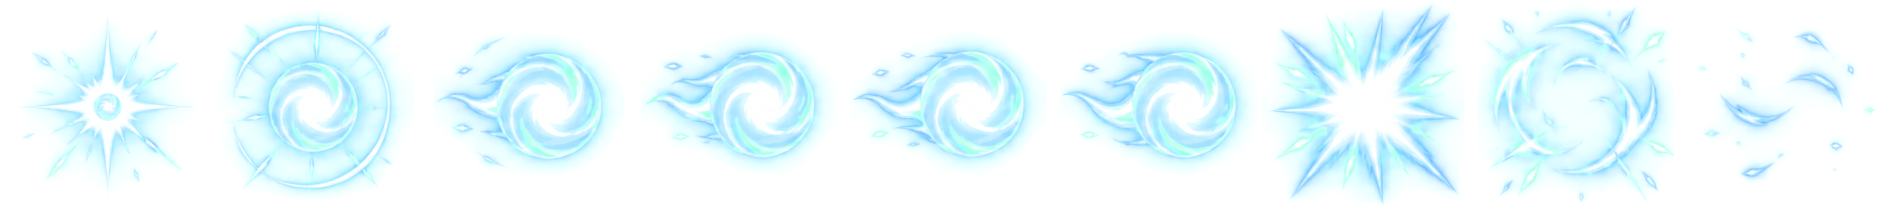
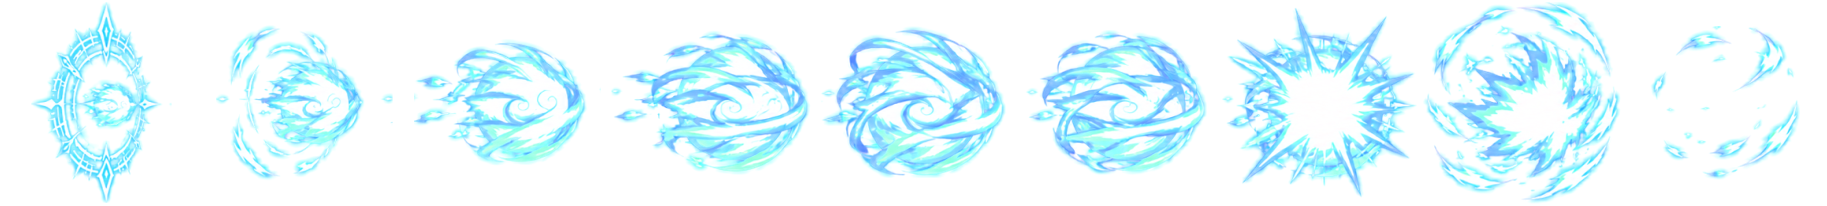
Malik: four redrawn effects wired in; the editor's FX page can move an effect
- Light and heavy Spirit Orb, the Down Rite orb (nine drawings now) and the
  air Rite's burst under the opponent (new sheet air-burst) are recut from the
  owner's new files. The heavy orb is light on black like the others.
- FX page: Move X / Move Y rows write sprite.offset [forward, up] px, applied
  in drawSheetFrame. Drawing only: hitboxes and spawn points do not move.
- Includes the owner's editor tuning in Malik's file (palm2 opacity, a hitbox).

Claude-Session: https://claude.ai/code/session_01XDQqBAyT34HEXnArFczUN3

diff --git a/src/editor/fx-model.js b/src/editor/fx-model.js
@@ -5,6 +5,8 @@
 //   size      sprite.scale      (1 = the sheet's own pixels)
 //   rotation  sprite.angle      degrees, clockwise when facing right (mirrored when facing left)
 //   colour    sprite.tint       "#rrggbb": the drawing multiplied by that colour; absent = as painted
+//   move      sprite.offset     [forward, up] px: the drawing moved off the place the game puts it. The drawing only:
+//                               a projectile's hitbox and where it spawns do not move.
 //   opacity   an effect or a projectile: art.opacity[<name>] (or the entry's own "opacity" when it has one), else
 //             the system's class default; a burst projectile's own sheet: sprite.opacity; a burst layer (fire,
 //             smoke): the layer's "opacity".
@@ -42,6 +44,8 @@ export const spriteOf = (raw, entry) => holder(raw, entry).sprite;
 export const FX_FIELDS = [
   { key: 'scale', label: 'Size', min: 0.05, max: 6, step: 0.05, big: 0.25, digits: 3, help: 'How big the sheet is drawn. 1 = its own pixels; most sheets are cut at double size and drawn at 0.5.' },
   { key: 'angle', label: 'Rotation', unit: '°', min: -180, max: 180, step: 5, big: 15, digits: 0, help: 'Degrees, clockwise when he faces right (it mirrors when he faces left). 0 = as painted.' },
+  { key: 'offset.x', label: 'Move X', unit: ' px', min: -600, max: 600, step: 1, big: 10, digits: 0, axis: 0, help: 'Moves the drawing forward (+) or back (−), the way the character faces. The drawing only: a hitbox does not move.' },
+  { key: 'offset.y', label: 'Move Y', unit: ' px', min: -600, max: 600, step: 1, big: 10, digits: 0, axis: 1, help: 'Moves the drawing up (+) or down (−). The drawing only: a hitbox does not move.' },
   { key: 'opacity', label: 'Opacity', min: 0, max: 1, step: 0.05, big: 0.2, digits: 2, help: '1 = solid, 0 = invisible. In the game it also drops a little while the effect covers a fighter.' },
   { key: 'tint', label: 'Colour', type: 'colour', help: 'The drawing multiplied by a colour. White and light effects take it cleanly; a painted one gets darker. NONE = as painted.' },
   { key: 'tint.r', label: 'Red', min: 0, max: 255, step: 5, big: 25, digits: 0, colour: 0, help: 'The red part of the colour (255 = leave the red as painted).' },
@@ -67,6 +71,7 @@ export function readFx(raw, entry, key, classes = {}) {
   const h = holder(raw, entry), s = h.sprite;
   if (key === 'scale') return { value: s.scale ?? 1, own: s.scale !== undefined };
   if (key === 'angle') return { value: s.angle ?? 0, own: s.angle !== undefined };
+  if (key.startsWith('offset.')) return { value: s.offset?.[fxField(key).axis] ?? 0, own: s.offset !== undefined };
   if (key === 'tint') return { value: s.tint ?? null, own: s.tint !== undefined };
   if (key.startsWith('tint.')) return { value: rgbOf(s.tint)[fxField(key).colour], own: s.tint !== undefined };
   if (key === 'opacity') {
@@ -103,6 +108,12 @@ export function writeFx(raw, entry, key, value) {
   }
   if (key === 'scale') { s.scale = v; return; }
   if (key === 'angle') { if (v === 0) delete s.angle; else s.angle = v; return; }
+  if (key.startsWith('offset.')) {
+    const at = [s.offset?.[0] ?? 0, s.offset?.[1] ?? 0];
+    at[f.axis] = v;
+    if (at[0] === 0 && at[1] === 0) delete s.offset; else s.offset = at;
+    return;
+  }
   // opacity
   if (entry.kind === 'layer') h.opacity = v;
   else if (entry.kind === 'burst') { if (v === 1) delete s.opacity; else s.opacity = v; }
@@ -119,6 +130,7 @@ export function resetFx(raw, entry, key) {
   const h = holder(raw, entry), s = h.sprite;
   if (key === 'scale') throw new Error('Size has no default: every sheet says how big it is drawn.');
   if (key === 'angle') { delete s.angle; return; }
+  if (key.startsWith('offset.')) { writeFx(raw, entry, key, 0); return; }
   if (key === 'tint' || key.startsWith('tint.')) { delete s.tint; return; }
   if (key === 'opacity') {
     if (entry.kind === 'layer') delete h.opacity;

diff --git a/tests/fx-editor.test.js b/tests/fx-editor.test.js
@@ -125,3 +125,53 @@ test('An effect that carries its own opacity is edited in place', () => {
   assert.equal(raw.effects.pillar.opacity, 0.3);
   assert.equal(raw.art.opacity.pillar, loadJSON(PATH('malik')).art.opacity.pillar, 'the name rule is left alone');
 });
+
+test('Move X / Move Y: the drawing moves, written as sprite.offset; the rules do not change', () => {
+  for (const id of ['avner', 'malik', 'warteun']) {
+    const raw = loadJSON(PATH(id));
+    const before = JSON.stringify(compileCharacter(clone(raw), SYSTEM).states);
+    for (const e of fxEntries(raw)) {
+      const s = spriteOf(raw, e);
+      assert.deepEqual([readFx(raw, e, 'offset.x', CLASSES), readFx(raw, e, 'offset.y', CLASSES)], [{ value: s.offset?.[0] ?? 0, own: s.offset !== undefined }, { value: s.offset?.[1] ?? 0, own: s.offset !== undefined }]);
+    }
+    const e = fxEntries(raw).find((x) => x.kind === 'projectile') ?? fxEntries(raw)[0];
+    const s = spriteOf(raw, e);
+    delete s.offset;
+    const spawn = JSON.stringify(raw.projectiles?.[e.name]?.spawn), hitbox = JSON.stringify(raw.projectiles?.[e.name]?.hitbox);
+    nudgeFx(raw, e, 'offset.x', 1, false, CLASSES);
+    assert.deepEqual(s.offset, [1, 0]);
+    nudgeFx(raw, e, 'offset.y', -1, true, CLASSES);
+    assert.deepEqual(s.offset, [1, -10], 'Shift: ten at a time');
+    writeFx(raw, e, 'offset.x', -25.4);
+    assert.deepEqual(s.offset, [-25, -10], 'whole pixels');
+    assert.equal(showFx('offset.x', -25), '-25 px');
+    assert.equal(JSON.stringify(raw.projectiles?.[e.name]?.spawn), spawn, `${id}: where it spawns is untouched`);
+    assert.equal(JSON.stringify(raw.projectiles?.[e.name]?.hitbox), hitbox, `${id}: its hitbox is untouched`);
+    const def = compileCharacter(clone(raw), SYSTEM);
+    assert.equal(JSON.stringify(def.states), before, `${id}: the compiled moves are the same`);
+    if (e.kind === 'projectile') assert.deepEqual(def.projectiles[e.name].sprite.offset, [-25, -10], `${id}: the game's drawing reads it`);
+    resetFx(raw, e, 'offset.x');
+    assert.deepEqual(s.offset, [0, -10]);
+    resetFx(raw, e, 'offset.y');
+    assert.equal(s.offset, undefined, 'back at its place: nothing left in the file');
+  }
+  assert.match(fs.readFileSync('src/render/fight-renderer.js', 'utf8'), /sheet\.offset\[0\]/, 'the renderer applies it');
+});
+
+test('Malik\'s redrawn effects (Nov 26): every sheet his file names matches the cut, and each animation stays inside its sheet', () => {
+  const raw = loadJSON(PATH('malik'));
+  const manifest = loadJSON('data/characters/malik/sheets/manifest.json');
+  for (const [name, key, drawings] of [['spiritOrb', 'orb', 9], ['spiritOrbH', 'orb-H', 9], ['palm2', 'palm-2', 9], ['palmJ', 'air-burst', 8]]) {
+    const p = raw.projectiles[name], m = manifest[key].sprite;
+    assert.equal(p.sprite.image, `sheets/${key}.png`, name);
+    assert.ok(fs.existsSync(`data/characters/malik/sheets/${key}.png`), key);
+    for (const f of ['columns', 'count', 'frameW', 'frameH', 'originX']) assert.equal(p.sprite[f], m[f], `${name} ${f}`);
+    assert.equal(p.sprite.count, drawings, `${name}: ${drawings} drawings`);
+    assert.equal(p.sprite.additive, true, `${name}: drawn as light`);
+    assert.equal(p.anim.release.length + p.anim.loop.length + p.anim.impact.length, drawings, `${name}: every drawing is used once`);
+  }
+  // The air Rite's burst shows on the frames it can hit: its forming drawings last exactly until the hit starts.
+  const J = raw.projectiles.palmJ;
+  assert.equal(J.anim.release.reduce((a, b) => a + b, 0), J.phases[0][0]);
+  assert.equal(raw.effects.riteClap.sprite.image, 'sheets/clap.png', 'the clap at his hands keeps its sheet');
+});

diff --git a/src/render/fight-renderer.js b/src/render/fight-renderer.js
@@ -260,6 +260,7 @@ export function createFightRenderer(ctx, W, H) {
   /** One frame of a sheet (effects, marks, chain pieces: no palette), centred on its origin at screen x, y. */
   function drawSheetFrame(def, sheet, index, x, y, facing, angle = (facing * (sheet.angle ?? 0) * Math.PI) / 180) { // sheet.angle: its own rotation, in degrees
     const op = fxOp; fxOp = null; // FXOPACITY
+    if (sheet.offset) { x += facing * sheet.offset[0]; y -= sheet.offset[1]; } // sheet.offset: [forward, up] px, the drawing moved off its place (the editor's FX page)
     const img = tinted(spriteImage(def ? def.id : null, sheet.image), sheet.tint);
     if (!img) return false;
     const cols = sheet.columns ?? 1;

diff --git a/src/ui/screens/fx-page.js b/src/ui/screens/fx-page.js
@@ -8,7 +8,7 @@ import { fxEntries, spriteOf, FX_FIELDS, fxField, SWATCHES, readFx, writeFx, res
 import { INK, DIM, GOLD } from './common.js';
 
 const CLASSES = FX.opacity?.classes ?? {};
-const ROW_H = 16;
+const ROW_H = 14;
 const TOP = 386;
 const LIST_ROW = 15;
 const LIST_TOP = 56;

diff --git a/CLAUDE.md b/CLAUDE.md
@@ -72,7 +72,7 @@ Current through **Phase 9** (all phases of the brief done), plus **Avner: Brand 
 - **HIT SETTINGS, added Nov 25** (owner approved; tests in `tests/move-editor.test.js`): the projectile setting **Appears** (`place` in `FIELDS`: in front of him / under the opponent) is written into every timeline `spawn` that releases that projectile (`spawnEvents` in move-model.js; a projectile target carries its `name`), not into the projectile. The **projectile timeline** strip under the measured lines: `flightOf` (when each projectile appears, when its box is live), `firstTouch` and `flightWarning` (a `remote` move's own hit must come on a later frame than its projectile's first touch) in preview.js, drawn by `drawFlight` in move-tuner.js; the preview's stats carry `touches` (every hit or block of the loop, by move name) and `now`. The strip's drawing has not been looked at on screen by the AI.
 - **The editor's HIT SETTINGS page** (T in the box editor; report `docs/reports/hit-settings.md`, tests `tests/move-editor.test.js`): `src/editor/move-model.js` (pure: `FIELDS`, `settingsTarget` → where a move's / EX version's / projectile's settings are written, `readSetting` / `writeSetting` / `resetSetting`, launch as none / soft / hard with own x, y), `src/editor/preview.js` (pure: the real game looping one move against a dummy and measuring it; `hitOwner` sends a projectile-only move to its projectile), `src/ui/screens/move-tuner.js` (the page; the box editor owns file, undo and save and passes them in). New move field `recoil` (attacker slides back on every touch; `recoil()` in combat.js). Open the editor straight on it with `?mode=editor&p1=malik&move=5L&page=hit`. Its TIMING column edits startup / active / recovery through `retime` in move-model.js: frames are added or taken at the end of the part that changes, and the sheet's `holds`, timeline events, `cancels`, `cancelFrom` / `cancelTo` and the EX overrides move with it (refused for EX versions, shared universal moves and moves with their own `duration`). Not on the page yet: scaling, meter, bounces.
 - **The editor's CANCELS page** (third page, T steps through them; `?page=cancel`; report `docs/reports/cancel-editor.md`, tests `tests/cancel-editor.test.js`): `src/editor/cancel-model.js` (pure, mirrors `gatlingCancels`: `cancelMoves`, `cancelTargets`, `readCancels`, `toggleChain`, `setChainOn`, `setGroup` for special / super / jump, `setWindow` for `cancelFrom` / `cancelTo`), `src/ui/screens/cancel-grid.js` (the grid). If `gatlingCancels` changes, cancel-model.js must change with it (the test catches it). Hand-written `cancels` windows are not editable there.
-- **The editor's FX page** (fourth page; `?page=fx`; Nov 26, owner's request; tests `tests/fx-editor.test.js`): `src/editor/fx-model.js` lists every effect sheet a character owns (`effects` entries, projectile sheets, a burst's `fire` / `smoke` layers) and says where size (`sprite.scale`), rotation (`sprite.angle`, degrees), colour (`sprite.tint`, multiply) and opacity are written (a named effect or projectile: `art.opacity[name]`; a burst's own sheet: `sprite.opacity`; a layer: its `opacity`). `src/ui/screens/fx-page.js` draws the looping preview with `renderer.poseSheet` and has its own list on the left. `drawSheetFrame` now honours `sheet.angle` (when no angle is passed) and `sheet.opacity` everywhere. Settings are per effect, not per move. Drawing only.
+- **The editor's FX page** (fourth page; `?page=fx`; Nov 26, owner's request; tests `tests/fx-editor.test.js`): `src/editor/fx-model.js` lists every effect sheet a character owns (`effects` entries, projectile sheets, a burst's `fire` / `smoke` layers) and says where position (`sprite.offset: [forward, up]` px, rows Move X / Move Y, added Nov 26; applied at the top of `drawSheetFrame`, drawing only) and size (`sprite.scale`), rotation (`sprite.angle`, degrees), colour (`sprite.tint`, multiply) and opacity are written (a named effect or projectile: `art.opacity[name]`; a burst's own sheet: `sprite.opacity`; a layer: its `opacity`). `src/ui/screens/fx-page.js` draws the looping preview with `renderer.poseSheet` and has its own list on the left. `drawSheetFrame` now honours `sheet.angle` (when no angle is passed) and `sheet.opacity` everywhere. Settings are per effect, not per move. Drawing only.
 - **Art in the renderer** (all drawing-only data the core carries but never reads): move `chain` (`drawChain`: hand
   → hitbox tip, or → opponent after a hit while they slide), move `hitFx` (a sheet effect spawned from the hit cue,
   aged per game frame so it plays through hitstop), var `mark.sprite`. `drawSheetFrame` draws one frame of any sheet
@@ -98,6 +98,7 @@ Current through **Phase 9** (all phases of the brief done), plus **Avner: Brand 
 - **Hit states** (`data/system/combo.json` `hitStates`; report `docs/reports/hit-states.md`): a move picks what its hit does with `hitReaction` (normal, slide, spin, tumble, crumple, softKD, hardKD), `airReaction`, `counterReaction` and `otg`. The rules for each state are numbers in that one table, never code. A fall ends in the soft knockdown unless the last hit asked for the hard one; only an `otg` move can hit a fighter in a hard knockdown, once per combo. There is no stagger state: Vow keeps its crumple strikes. Avner's slide move is Lantern Drag (`lanternDrag`, 3H; sheets `lantern-drag`, `drag-sparks`, `drag-dust` from `Avner_LanternDrag*.png` via `avner-prep`; `node scripts/shots.mjs <folder> lamp-drag` pictures it). His overhead is Waning Hop (`waningHop`, 6M; a grounded move whose hurtbox is lifted off the floor during the hop; sheets `waning-hop`, `hop-crescent`; scene `lamp-hop`). In `avner-prep`, a part's `lineFrom` counts per row, so a two-row sheet with airborne drawings keeps a ground line for each row. Moonfall (`j.214M`) is his air dive: `landTo` `moonfallLand` after a miss, `onHitState` `moonfallRebound` / `onBlockState` `moonfallGuarded` ride it to the floor and land in the shorter `moonfallLandHit`, `perJump` once a jump.
 - **Avner's newer sheets** (owner, Nov 24; report `docs/reports/avner-bb-sheets.md`): stance, walks, crouch, jump, dashes, ground normals, 3H, 6M and Moonfall are cut from the BlazBlue-style drawings with the owner's holds. In `avner-prep.mjs` those table entries carry `bb: true` (their own body size, set by the new idle: 190 px standing; crouching sheets are cut at the crouch sheet's scale), `anchor: 'upper'` (lined up on the head and chest) and effects can have `variants` (`flip: 'v'`, `turn: true`: the crescent upside down and flat). The older idle is only measured (`measureOnly`) to size the older sheets (specials, throw tech), which are still the old style. Movement drawings are fitted to the shared rule lengths (prejump, dash, landing), not the other way round. 4H is Crescent Withdraw (`backHeavy`): a grounded move with a lifted hurtbox and throw invulnerability while he is off the floor. `node scripts/shots.mjs <folder> lamp-bb` pictures the set. The air normals are the newer style too (j.L, j.M, j.H, j.S); j.S is once per jump (`perJump: "crash"`), rides to the floor and lands in its own `crashLand` (14 frames), with `onHitState` `crashFall` dropping him straight down. Not built: j.H spinning an airborne fighter inside moonlight (no rule lets a move react to the zone yet). His blocks, hit reactions, spin, tumble, slide, knockdown, wake-up, ground and air tech (art entries `groundTech` / `airTech`), being thrown, both throws, Vow (guard and one strike sheet shared by all three strikes), Repel, Draw, Absolve and crumple are the newer style too (Nov 25; no holds came with them, they are fitted to the rule lengths). Blocks show the impact for 4 frames, then the guard, and a third drawing as an `art.exit`. Cut but unused: `intro`, `win-pose`, `getup-forward`, `hit-stand-gut` (the engine has no intro, win pose, forward get-up or per-height hit reaction). `node scripts/shots.mjs <folder> lamp-sys` pictures them. **Specials (Nov 25; this replaces what the Lampbearer bullet above says about Rising Moon, Halo, Tide, Snap, Recall and Air Crescent):** Air Crescent and Crescent Recall are cut. Rising Moon `risingMoonL/M/H` spawns a travelling orb of the same name from the lantern on frame 14 (lifetime sets the distance); EX spawns `risingMoonEx` then `risingMoonEx2` (spin, `onHit.vars.moonmark`). Lunar Halo is `stance: "air"` on a ground input: timeline `gravity` off, `vel` up over drawings 2-4, `landTo` `haloLand`; all versions invincible frames 1-8. Tide: the projectile `tideWaveL/M/H/Ex` only hooks (`onHit.vars.tideHook`, a 30-frame var); the move's own hit on frame 25 is `remote` with `hitRequires: { vars: { tideHook: 1 } }` and `pull`. `moonSnap` is `perCombo: 1`, sits above `moonlit5` in the file and needs only the mark. Moonmark draws `sheets/moonmark.png`. A projectile must not share a name with a move (the repeat penalty would apply). In `avner-prep.mjs` a part's `air: [drawings]` cuts those drawings about the body, and an effect's `perRow` gives uneven rows. `node scripts/shots.mjs <folder> lamp-sp` films each special (a still every 2 frames). Move / projectile field `inZone: { hitReaction, airReaction, juggleCost }` (`move.zoneHit`; `applyStrike` in combat.js): what the hit does while the defender stands in a zone of the attacker's (Rising Moon spins there at juggle cost 4, j.H spins an airborne fighter). Drawing only: a named effect's `follow: true` keeps it on its fighter and `behind: true` draws it behind their body (`drawNamed`; the Halo bursts), and a sprite's `tint: "#rrggbb"` multiplies the sheet by a colour once (`tinted` in fight-renderer.js; EX effects in gold; needs a real canvas, so `shots.mjs` pictures are untinted). The stage's ridge / arches / railing layers are Path2D shapes filled each frame, not stored pictures (a stored picture enlarged by the camera zoom cost about 1.3 ms a layer without a graphics card; the canvas path remains as the fallback where `Path2D` does not exist). `baseline-screen.mjs` now reads 8.4 ms a frame average, 14.6 worst 5% (13.9 / 19.8 before that fix; 6.9 / 11.4 on commit 58ba147, before the camera zoom). Only the throw tech and `drawn` are still old-style art.
 - **Universal hit effects** (owner, Nov 25; report `docs/reports/hit-effects.md`): `data/system/effects.json` `sparks` holds one strip per kind (light, medium, heavy, slash, counter, witness, projectile) with its own `holds`; `sparkFor` names the strip for a Witness counter, a counter hit and a projectile's hit (checked in that order), a move's `"hitFx": "slash"` (a name, not an object) asks for that strip, and the rest are sized by base damage as before (`collect` in fight-renderer.js). Strips are cut from `data/UniversalEffects/Game_HitEffect_*.png` by `scripts/hit-fx-prep.mjs` (sizes are a table in that tool). The block flash is still row 3 of the old `hit-block.png`. A hit cue carries the projectile's name, so a projectile must not share a name with a move (Avner's orbs are `moonOrbL/M/H`; Malik's `spiritOrb` still shares one). Pictures: `node scripts/shots.mjs <folder> fx-hits`.
+- **Malik's effects redrawn again, Nov 26** (tests in `tests/fx-editor.test.js`; scenes `mfx-orb-L/H`, `mfx-rite-2`, `mfx-rite-j`): `orb` (light) and `orb-H` (heavy, now light on black and additive like the others, `mode: 'fx'`; no longer the painted cut-out) keep nine drawings 2 / 4 / 3; `palm-2` has nine (2 forming, 4 looped, 3 burst; `originY` is hand-set 52 above the cut's ground line because the projectile spawns 26 px up: do not sync it from the manifest); the air Rite's burst under the opponent (`palmJ`) is the new sheet `air-burst` from `Malik_Air_Rite_Effect.PNG` (8 drawings: the first five last until the hit starts), while the clap at his hands (`riteClap`) keeps `clap` from `Malik_Rite_Air_Effect.png`.
 - **Malik's newer sheets** (owner, Nov 25; report `docs/reports/malik-bb-sheets.md`; this replaces what the Malik bullet above says about drawing counts and which drawing hits): nearly all of him is recut from 50 small JPEG sheets by `node scripts/avner-prep.mjs --char malik [--only a,b] [--analyze]` (table `scripts/malik-sheets.mjs`, `MEASURE = 'area'`: sized by body area against the idle; output `sheets/manifest.json`). No holds came with them: they are fitted to the existing frame data, and the hit drawings are listed at the top of his file. New moves with first-guess numbers: `stomp` (6M, `otg`, fx `stompWave`) and `rite_4` (4R, Guardian Ward, projectile `ward` with `phases`). New named effects: `axeArc` (j.S), `lariatTrailL/M/H/Ex`, `vowBlast` (his Vow strikes repeat the universal timeline beside the `fx` cue). Install: `sheets/install-change.png` (12 drawings) on the super; the guardian is painted into the install drawings, so the aura's first entry is the effect name `none` (nothing) with its `swap` kept, and `spirit5L/M/H` draw him from `sheets/install-solo.png`; `art` also swaps jump squat, jump, fall and land. j.R keeps the ground hand (the cut `clap` effect is unused, question open). Boxes were not moved. Still old style: crouch, back air dash, knockdown, wake-up, 5R / 2R / 6R, Vow start / hold / absorb, Absolve, Repel, Draw, throw tech, guardian attacks. Pictures: `node scripts/shots.mjs <folder> mk`. **Evening, Nov 25:** the owner replaced the raw folder with 44 full-size PNGs (2172 px wide, new names, same drawings); the table reads those now and 42 sheets were recut, sprite sizes updated in place. Sheets with no new source keep the earlier cut (`fireball`, `vow-strike*`, `vow-blast`, `install-jump*`, `install-2`, `backdash`, guardian). `fireball-M` has six drawings. Not built: `Malik_Dash_Effect.PNG`, `Malik_Air_Dash_Effect.PNG` (a per-character dash effect needs a renderer change). **Night, Nov 25: 5L, 5M, 5H and 4H redrawn** (2688 x 1520, rows, a leaner build; each ends in an upright pose that sizes its sheet, `TALL` 219 in the table). Frame data and boxes untouched. 5L is 6 drawings (hit on 3), 5H 8 (hit on 5), 4H 8 (hit on 4); 5M uses drawings 1, 2, 6, 7, 8 of nine (`fix: 0.88`; the wind-up drawings 3-5 need the second hit moved later, open with the owner). Then 2L, 2M, 2H, 5S and the four air normals the same way (crouch attacks sized by `CROUCH` 152, air L / M / H by `AIRREF` 208, 5S and j.S by the upright pose; j.S uses drawings 1-5 of seven, its landing drawings have no state; the `axeArc` effect still plays over j.S's painted arc, owner to choose). **The new sheets are clean see-through PNGs: flattening them with ffmpeg shows a dark glow that is not there in the game.** Then the idle (12 drawings, still the table's `scaleRef`), the walks (a sheet each, 8 drawings), dashes, air dashes (`airdash-back` is in the table now; one `airdash-end` drawing) and 5R (`rite-5`, and its spirit hand `palm-5`: a painted sheet cut with `grid` in air mode, so `palm5` is no longer `additive` and its origin is the manifest's less 184). Then 4R, 2R (`rite-2`; `palm-2` is now a rolling orb, an `fx` sheet cut with the floor as origin, so `palm2`'s originY is the manifest's less 44), j.R (ground hand kept; the clap is the picture-only effect `riteClap` from frame 1), the three Energy Spheres (`fireball` 6 / `fireball-M` 8 / `fireball-H` 10 drawings, strike on 4 / 5 / 8; `orb-H` is painted, `grid`, air mode, origin less 184), Lariat (9 drawings; `lariat-trail` is six rows placed with `centres` at the head) and Pillar; the launcher was re-saved and recut. **One size, one palette:** `avner-prep.mjs` has two opt-in options for a table that exports `EVEN` / `PALETTE`: `even: 'stand' | 'crouch' | 'air'` (per-drawing scale from body area, banded and capped; `--analyze` prints the factors) and `tone: true` (pants / skin / hair / sash multiplied to the palette; `pantsBand` for the idle). After any recut of those sheets the cell sizes change: `node scripts/malik-sync-sprites.cjs check|write <names>` does the in-place update of every sprite block that uses the sheet (lariat has six, pillar three). In the folder and not wired: `Malik_Crouching.png`, `Malik_Jump.png` (labelled, with text). Sheets with no `ref` and no new source (jump, air hit reactions) would be sized from the new idle if recut.
 - **Shockwave rings** (owner, Nov 25; report `docs/reports/shockwave.md`, tests `tests/shockwave.test.js`; drawing only): `data/system/effects.json` `shockwave` (`on`, `warp`, `bands`, `max`, `edge`, `sets` of rings with `scale` and `pulse`, `when` for the system's own hits). In fight-renderer.js the three blocks marked `SHOCKWAVE`: `shockCue` (from hit and bounce cues: round-ending hit, a super's last hit, counter with a listed move, crumple / hard launch / hard knockdown, then the character's `art.shockwave: { moveOrProjectile: set }`), `shockAge` (rings stand still while the fighter who was hit is in hitstop), `shockDraw` (after the zoom ends, before the HUD: the picture is copied and redrawn in clipped circular bands, each enlarged about the ring's centre; a white ring only where there is no real canvas), `renderer.shock(name, x, y)` for tools, `opts.shockwave: false`. No colour split. `node scripts/shockwave-shots.mjs <folder>` (real-screen captures and timing; times in batches with a fresh canvas, because reading a canvas back every frame makes Chrome move it off the graphics card) and `node scripts/shockwave-remove.mjs` (takes all of it out). The owner may still ask for it to be removed.
 - **Block effect and see-through effects** (owner, Nov 25; report `docs/reports/block-fx.md`, tests `tests/block-fx.test.js`; drawing only; this replaces what the bullets above say about the block flash and the Repel wave). `effects.json` `opacity`: `classes`, `flashFirst`, `coverShare` / `coverDrop` / `coverInset`; an effect's number is its own `opacity` (universal sheets) or the character's `art.opacity: { effectOrProjectile: number, "mark:<var>": number }`. In fight-renderer.js (lines and blocks marked `FXOPACITY`): a drawing site sets `fxOp` on the line before `drawSheetFrame`, which takes it once and multiplies the alpha by `opFor` (opacity, less 0.15 while the cell covers over half of a fighter's hurtboxes, times the player's setting `FXO.global` from `src/render/fx-opacity.js`, set by `loadSettings` / `saveSettings`; setting `effectsOpacity`). `opts.effectsOpacity: false` draws as before. `blockFx` (blocks marked `BLOCKFX`; **Nov 25: one guard is the only block effect**; the owner replaced its sheet twice, and the current one is the glass guard, 10 drawings from `Game_Block_Effect.png` (5 x 2, cut with its own opacity): drawing 1 `in`, 2-4 `loop`, 5-10 `out`, holds fitted by me; shield, sigil, sparks and Repel copies are gone, older strips and numbers in `docs/reports/block-fx/old-strips/`): `blockCue` (a `block` cue → `guardHit`: one guard per defender, strength from the move's button / kind / a projectile's damage; a guard still up replays `in` at full size), `blockRepel` (the `repel` cue: bigger, white flash, `outSpeed`, `drift`), `blockAge` (per game frame; `holdInHitstop` false: the owner asked twice for no hold, it reads as the game freezing; block sparks, back at his word, are their own list `blockSparks`, always play through hitstop, and are named by a strength's `spark` (a name or a list); `sparks.shards` = the owner's burst for blocked heavies and physical specials from `Game_Block_Effect_Heavys_PhysicalSpecials.png`, on strength `heavy` only: a blocked projectile that is not light takes `strengthOf.projectile` = `heavyProjectile`, without shards), `blockDraw` (right after the defender: the guard flat at `opacity`, `pop` scale on a fresh one, the white copy for `flash.frames`; `spin` is 0 by the owner's word). Strips: `node scripts/block-fx-prep.mjs`. Pictures and timing: `node scripts/block-fx-shots.mjs <folder>`. `node scripts/block-fx-remove.mjs` takes all of it out. `Game_OTG_Effect.png` is in the raw folder, not used.

diff --git a/docs/toska-format.md b/docs/toska-format.md
@@ -376,7 +376,8 @@ stays (a block: the pushed-back drawing, then the guard).
 
 ## Sheet settings any effect sprite can carry (drawing only)
 
-On the `sprite` block of an `effects` entry, a projectile, or a burst layer: `"scale"` (size), `"angle"` (degrees,
+On the `sprite` block of an `effects` entry, a projectile, or a burst layer: `"offset": [forward, up]` (px; the drawing
+moved off its place, mirrored with facing; never the hitbox), `"scale"` (size), `"angle"` (degrees,
 clockwise facing right, mirrored facing left), `"tint"` (`"#rrggbb"`: the drawing multiplied by that colour) and
 `"opacity"` (0 to 1, multiplied in on top of any effect-opacity rule; this is where a burst projectile's own sheet
 keeps it). A named effect's or projectile's opacity is normally `art.opacity["<name>"]`. The editor's FX page
